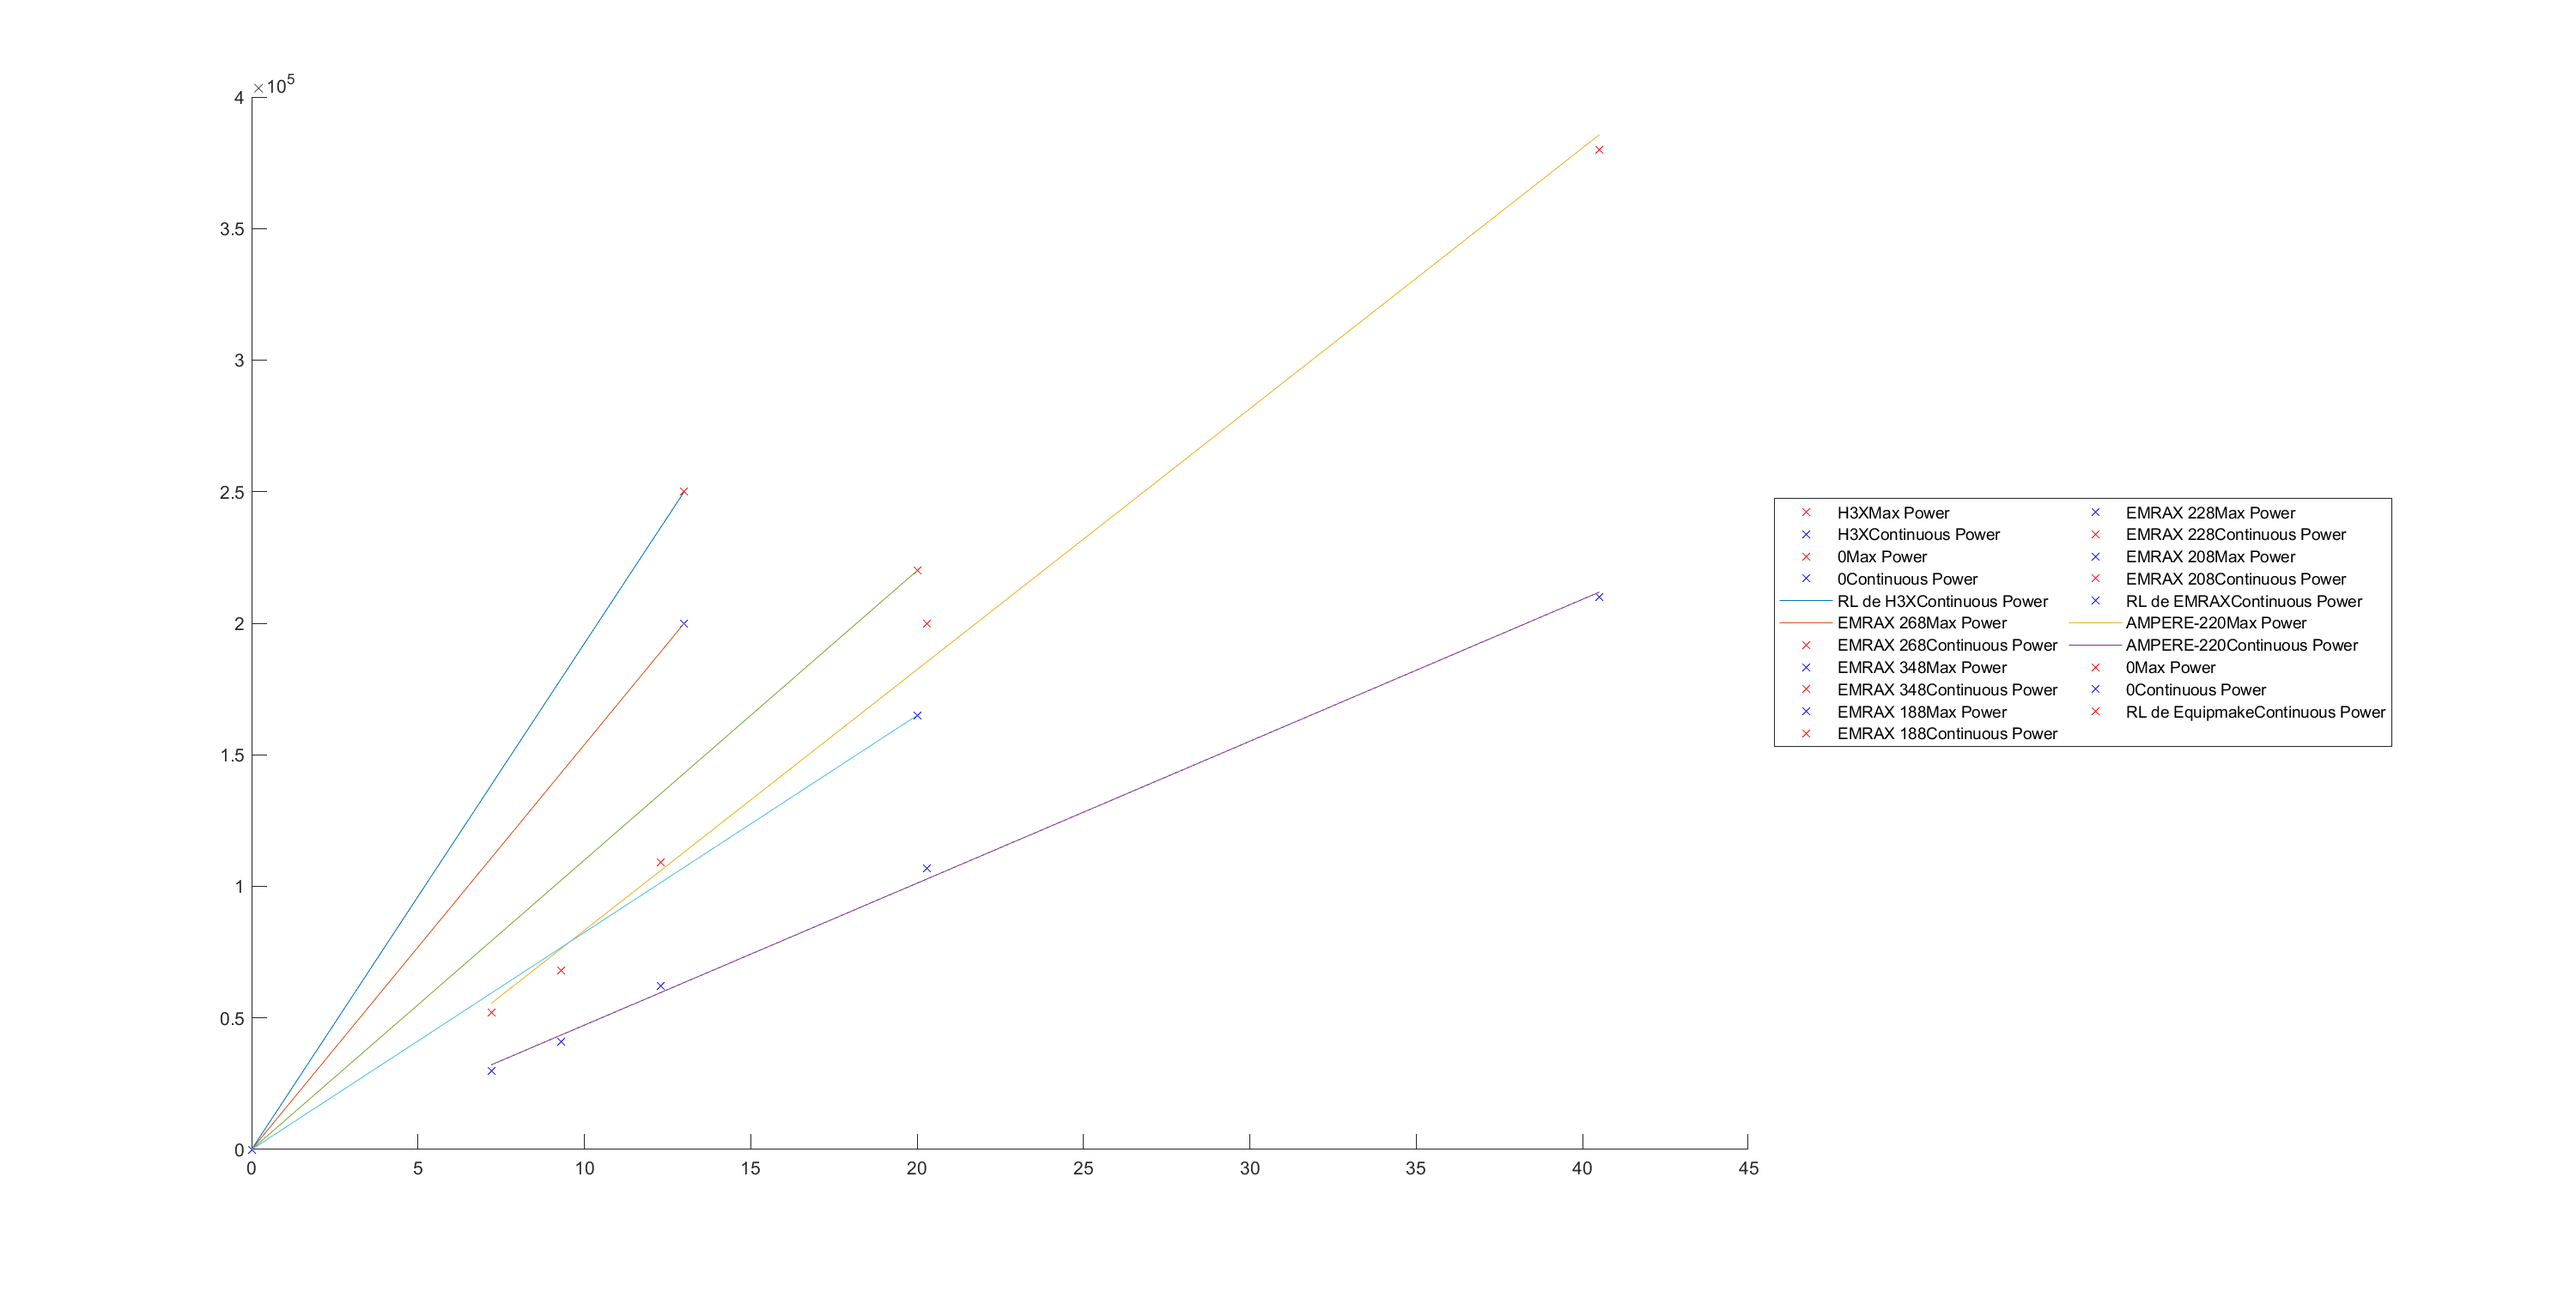
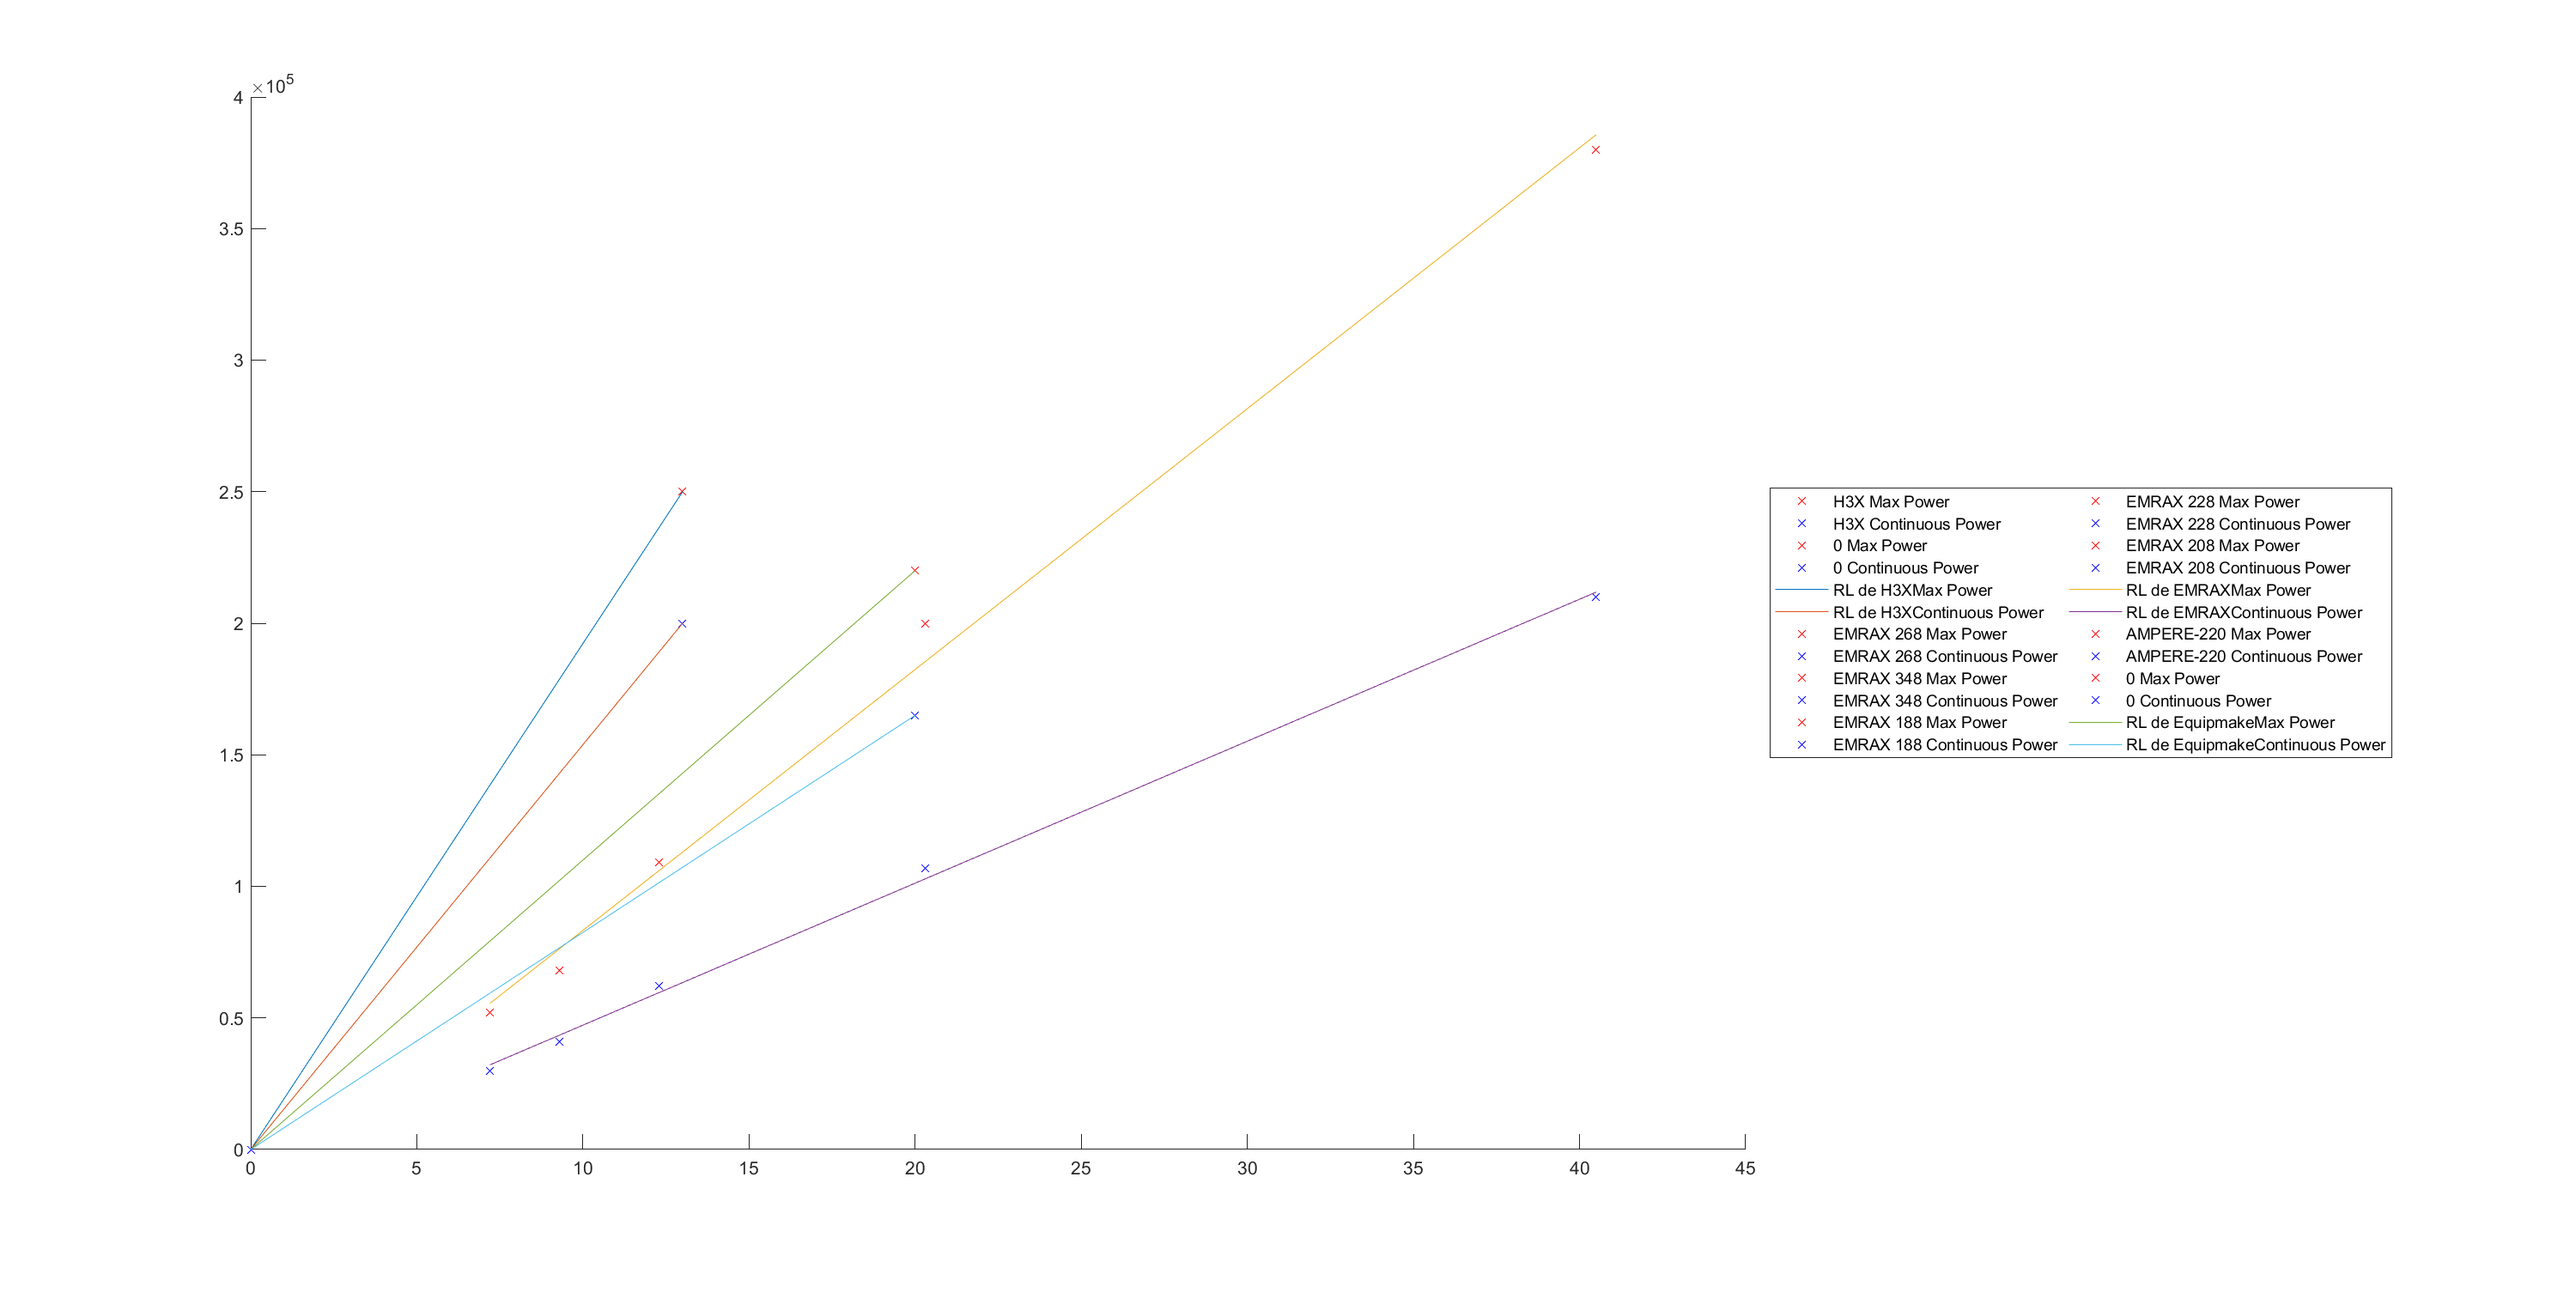
Efficiencia patch

diff --git a/aircraft-design-tool-main/propeller_efficiency_analysis.m b/aircraft-design-tool-main/propeller_efficiency_analysis.m
@@ -11,41 +11,47 @@ global constants;
 
 eff = [0 0];
 
+eff_function = load_eff_funciton('eff_lines.txt');
+
 %% Important data from aircraft 
-rotor           = find_by_type(aircraft.vehicles.components,'driver.rotor.main');
+[rotor rotor_id]= find_by_type(aircraft.vehicle.components,'driver.rotor.main');
 cruise_mission  = find_by_type(aircraft.mission.segments,'cruise');
-vehicle_mission = find_by_name(aircraft.vehicles.segments,cruise_mission.name);
+vehicle_mission = find_by_name(aircraft.vehicle.segments,cruise_mission.name);
 rho             = cruise_mission.density;
 d               = rotor.radius*2;
 v               = cruise_mission.velocity;
 k               = k_parameter(aircraft.vehicle);
 cd_0            = vehicle_mission.base_drag_coefficient;
-c_1             = find_by_type(aircraft.vehicles.components,'wing.main');
-c_2             = find_by_type(aircraft.vehicles.components,'wing.htail');
+c_1             = find_by_type(aircraft.vehicle.components,'wing.main');
+c_2             = find_by_type(aircraft.vehicle.components,'wing.htail');
 
 eff(1)          = rotor.efficiency;
 % Gets J
-J = v/sqrt(rotor.tip_velocity^2 - v^2);
+J = v/sqrt((rotor.tip_velocity*0.7/0.5)^2 - v^2)*pi;
 
 while abs(eff(1) - eff(2)) > 0.01
     % Gets MTOW
-    aircraft = mass_analysis(aircraft.mission, aircraft.vehicle, aircraft.energy);
+    [aircraft.mission, aircraft.vehicle] = mass_analysis(aircraft.mission, aircraft.vehicle, aircraft.energy);
     % Gets data
     wl = aircraft.vehicle.mass * constants.g / (c_1.area_ref + c_2.area_ref);
     % Gets P
-    P = cruise_speed_constraint_prop(wl, rho, v, cd_0, k, eff(1));
+    P = aircraft.vehicle.mass * constants.g /cruise_speed_constraint_prop(wl, rho, v, cd_0, k, eff(1));
     Cp = P/(rho*(rotor.tip_velocity^2 - v^2)^(3/2))*pi^3/d^2;
     % Gets efficiency
     eff(2) = eff(1);
-    eff(1) = gets_efficiency(J, Cp);
+    eff(1) = interp2(eff_function.X, eff_function.Y, eff_function.Z, J, Cp);
+    aircraft.vehicle.components{rotor_id}.efficiency = eff(1);
 end
-
-rotor.efficiency    = eff(1);
 
 result = aircraft;
 
 end
 
-function n = gets_efficiency(J, P)
+function k = k_parameter(vehicle)
+c = find_by_type(vehicle.components, 'wing.main');
+k = 1 / pi / c.aspect_ratio / c.oswald_efficiency;
+end
 
-n = 
+function ptl = cruise_speed_constraint_prop(wl, rho, v, cd_0, k, ee)
+ptl = ee ./ (rho .* v.^3 .* cd_0 ./ 2 ./ wl + 2 .* k .* wl ./ rho ./ v);
+end

diff --git a/aircraft-design-tool-main/Engine_Related/Engine_Build.m b/aircraft-design-tool-main/Engine_Related/Engine_Build.m
@@ -42,23 +42,23 @@ for c=1:length(complex_engines.engine_set)
         plot(real_engines.engine_set{c}.engines{d}.mass,...
             real_engines.engine_set{c}.engines{d}.max_power,...
             'rx');
-        legend_cell{n+2*d-1} =  [real_engines.engine_set{c}.engines{d}.name 'Max Power'];
+        legend_cell{n+2*d-1} =  [real_engines.engine_set{c}.engines{d}.name ' Max Power'];
         
         plot(   real_engines.engine_set{c}.engines{d}.mass,...
                 real_engines.engine_set{c}.engines{d}.con_power,...
             'bx');
-        legend_cell{n+2*d} =  [real_engines.engine_set{c}.engines{d}.name 'Continuous Power'];
+        legend_cell{n+2*d} =  [real_engines.engine_set{c}.engines{d}.name ' Continuous Power'];
         %x_real(d) = real_engines.engine_set{c}.engines{d}.mass;
         %y_real(d) = real_engines.engine_set{c}.engines{d}.max_power;
     end
     %plot(x_real,y_real,'x');
     %legend_cell{2*c -1} = real_engines.engine_set{c}.name;
     
-    n = n+2*d +1;
+    n = n+2*d +2;
     plot(x_aproximado, y_aproximado);
-    legend_cell{n} = ['RL de ' real_engines.engine_set{c}.name 'Max Power'];
+    legend_cell{n-1} = ['RL de ' real_engines.engine_set{c}.name ' Max Power'];
     plot(x_aproximado, z_aproximado);
-    legend_cell{n} = ['RL de ' real_engines.engine_set{c}.name 'Continuous Power'];
+    legend_cell{n} = ['RL de ' real_engines.engine_set{c}.name ' Continuous Power'];
 end
 
 legend(legend_cell,'Location','eastoutside','NumColumns', 2);

diff --git a/aircraft-design-tool-main/load_eff_funciton.m b/aircraft-design-tool-main/load_eff_funciton.m
@@ -1,17 +1,3 @@
-% Obtem T
-% Faz lista de P -> Cp
-% Calcula J
-% Descobre eficiencias -> T
-% Verifica qual o minimo P
-% Altera eficiencia conforme
-% Iterar
-
-
-values = load_eff_funciton('eff_lines.txt');
-
-surf(values.X,values.Y,values.Z,'EdgeColor','none');
-
-
 function data = load_eff_funciton(file_name)
 
 
@@ -21,7 +7,7 @@ first_data = fscanf(file,'%f %f %f',[3 Inf]);
 first_data = first_data.';
 
 x = 0.2:0.001:2.8;
-y = 0.05:0.005:0.45;
+y = 0.05:0.005:0.50;
 [X,Y] = meshgrid(x,y);
 data.X = X;
 data.Y = Y;

diff --git a/aircraft-design-tool-main/scramble_aircraft.m b/aircraft-design-tool-main/scramble_aircraft.m
@@ -221,8 +221,8 @@ for i = 1 : length(frame)
     elseif(is_type(frame{i},'engine.prop.eletric'))        
             % Maximum Power
             lim = [400000, 550000];
-            b1  = 2261;
-            b0  = 179666;
+            b1  = 15400;
+            b0  = 0;
             while 1
                 a = frame{i}.max_power*surprise((lim(1)-lim(2))/frame{i}.max_power, REL_ADVANCEMENT*2);
                 if is_in_limit(lim(1), a,lim(2))

diff --git a/aircraft-design-tool-main/adt.m b/aircraft-design-tool-main/adt.m
@@ -26,6 +26,7 @@ plot_mission(data.mission);
 %% Mission analyses
 data.vehicle = aero_analysis(data.mission, data.vehicle);
 [data.mission, data.vehicle] = mass_analysis(data.mission, data.vehicle, data.energy);
+data         = propeller_efficiency_analysis(data);
 data.vehicle = design_space_analysis(data.mission, data.vehicle, data.energy);
 
 %% Save new project file
